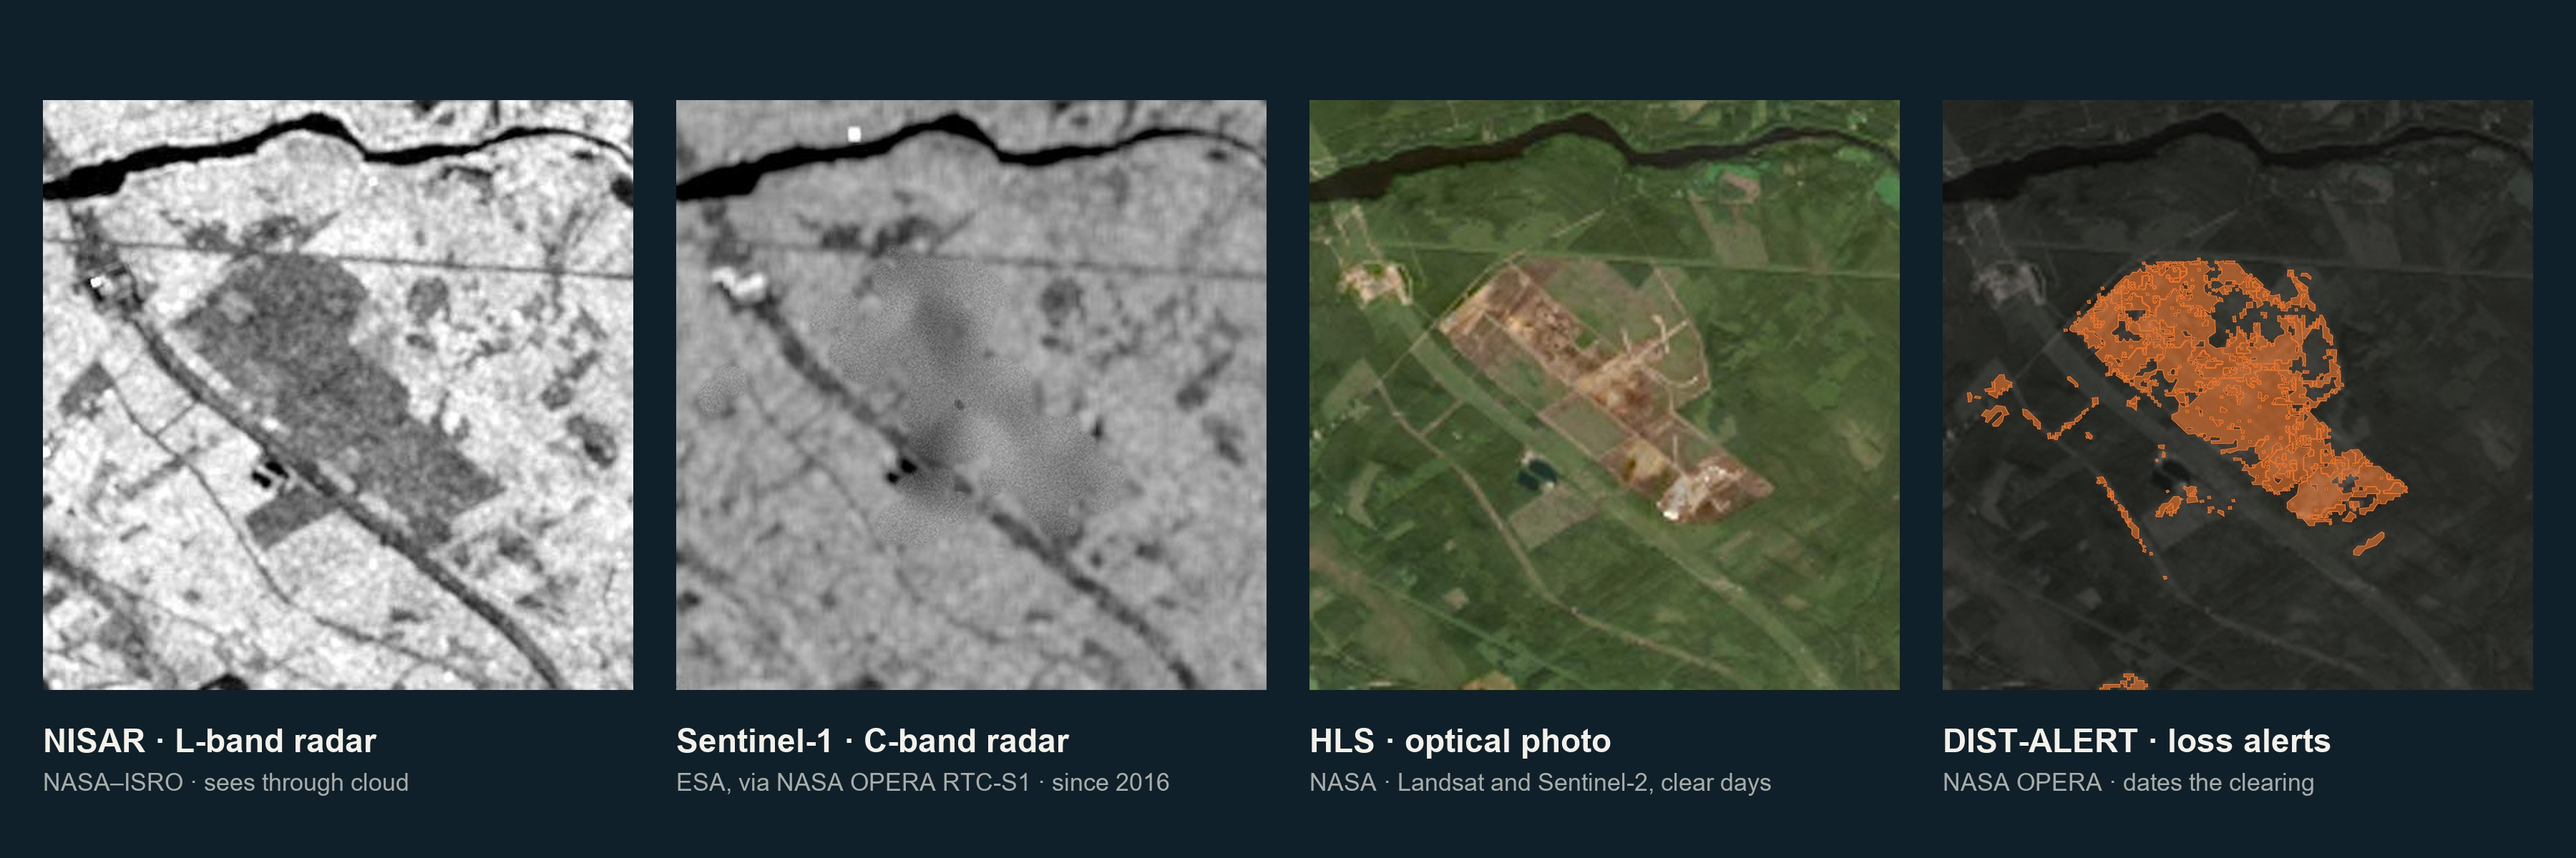
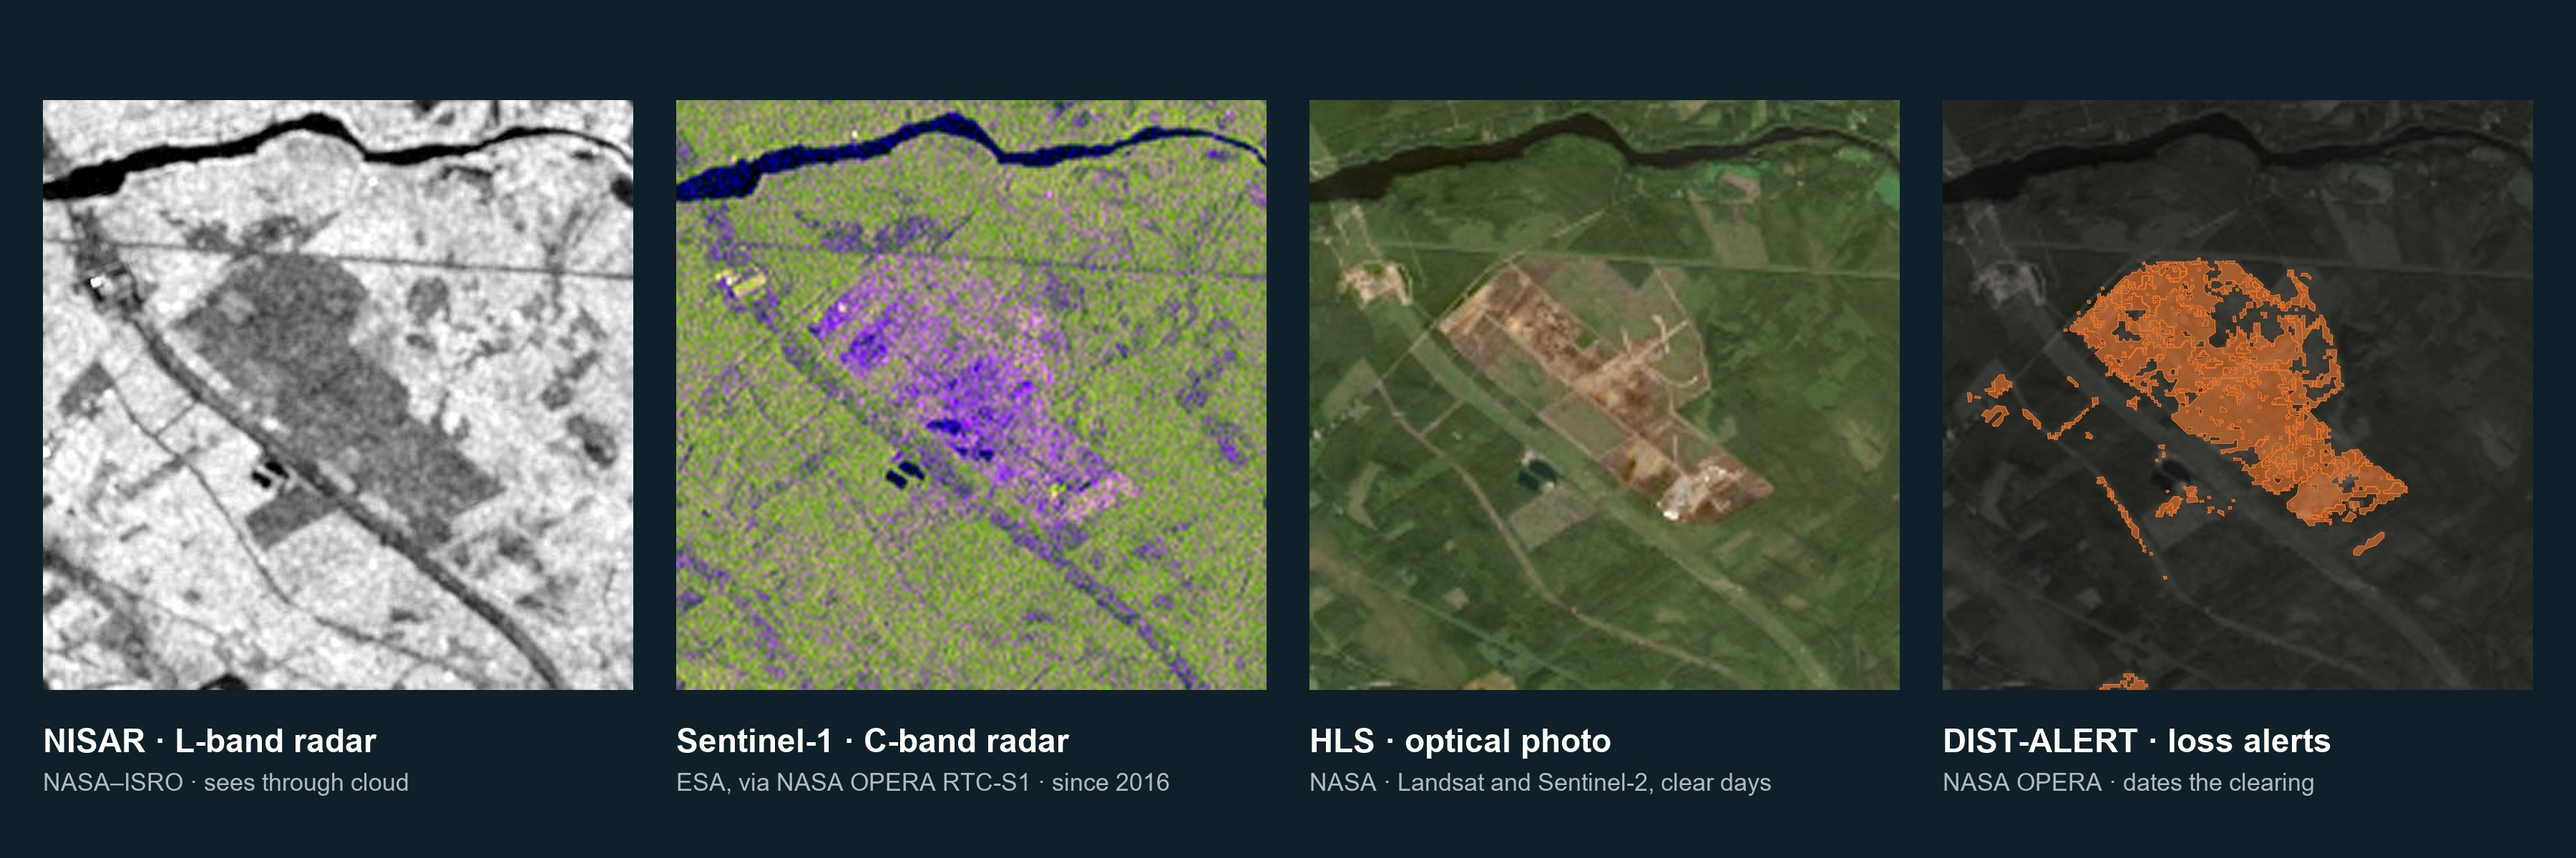
Pitch layers: an unretouched Sentinel-1 picture (#184)

Changed region(s): [[0.2489, 0.0925, 0.4978, 0.8017]]

diff --git a/docs/pitch/README.md b/docs/pitch/README.md
@@ -18,6 +18,6 @@ Fetched with the public NASA Worldview Snapshots API using the radar picture's b
 
 - `layers-strip.jpg` (3600x1200): the four tiles in a row with captions, for the slide.
 - `layer-nisar.jpg`: NISAR L-band radar, 19 Jul 2026, from `frames/radar/2026-07-19-nisar.jpg`. Credit: NISAR (NASA/ISRO).
-- `layer-sentinel1.jpg`: Sentinel-1 C-band radar, 22 Jun 2026 (the last Sentinel-1 frame in the app), from `frames/radar/2026-06-22.jpg`. The app's pink change marks were painted out of this frame. Credit: Contains modified Copernicus Sentinel data (ESA, Copernicus), prepared as OPERA RTC-S1 (NASA).
+- `layer-sentinel1.jpg`: Sentinel-1 C-band radar, a colour composite (mean of 3 passes, 14 to 26 Oct 2026, the app's Sentinel-1 "after" layer dated 20 Oct), from `app/data/muhos/layers/sentinel_1_c_band_after.png`, cropped to the same ground area as the other tiles by longitude/latitude (no marks, not retouched; the source is 290x302 px, so it is soft). Credit: Contains modified Copernicus Sentinel data (ESA, Copernicus), prepared as OPERA RTC-S1 (NASA).
 - `layer-hls-photo.jpg`: optical photo, 27 Aug 2026, from `frames/photo/2026-08-27.jpg`. Credit: HLS (NASA; made from Landsat and Sentinel-2).
 - `layer-dist-alert.jpg`: OPERA DIST-ALERT vegetation-loss alerts (dated 29 Apr to 31 Aug 2026) in orange over a darkened copy of the 27 Aug photo, from `changes.geojson`. Credit: OPERA DIST-ALERT-HLS (NASA).
